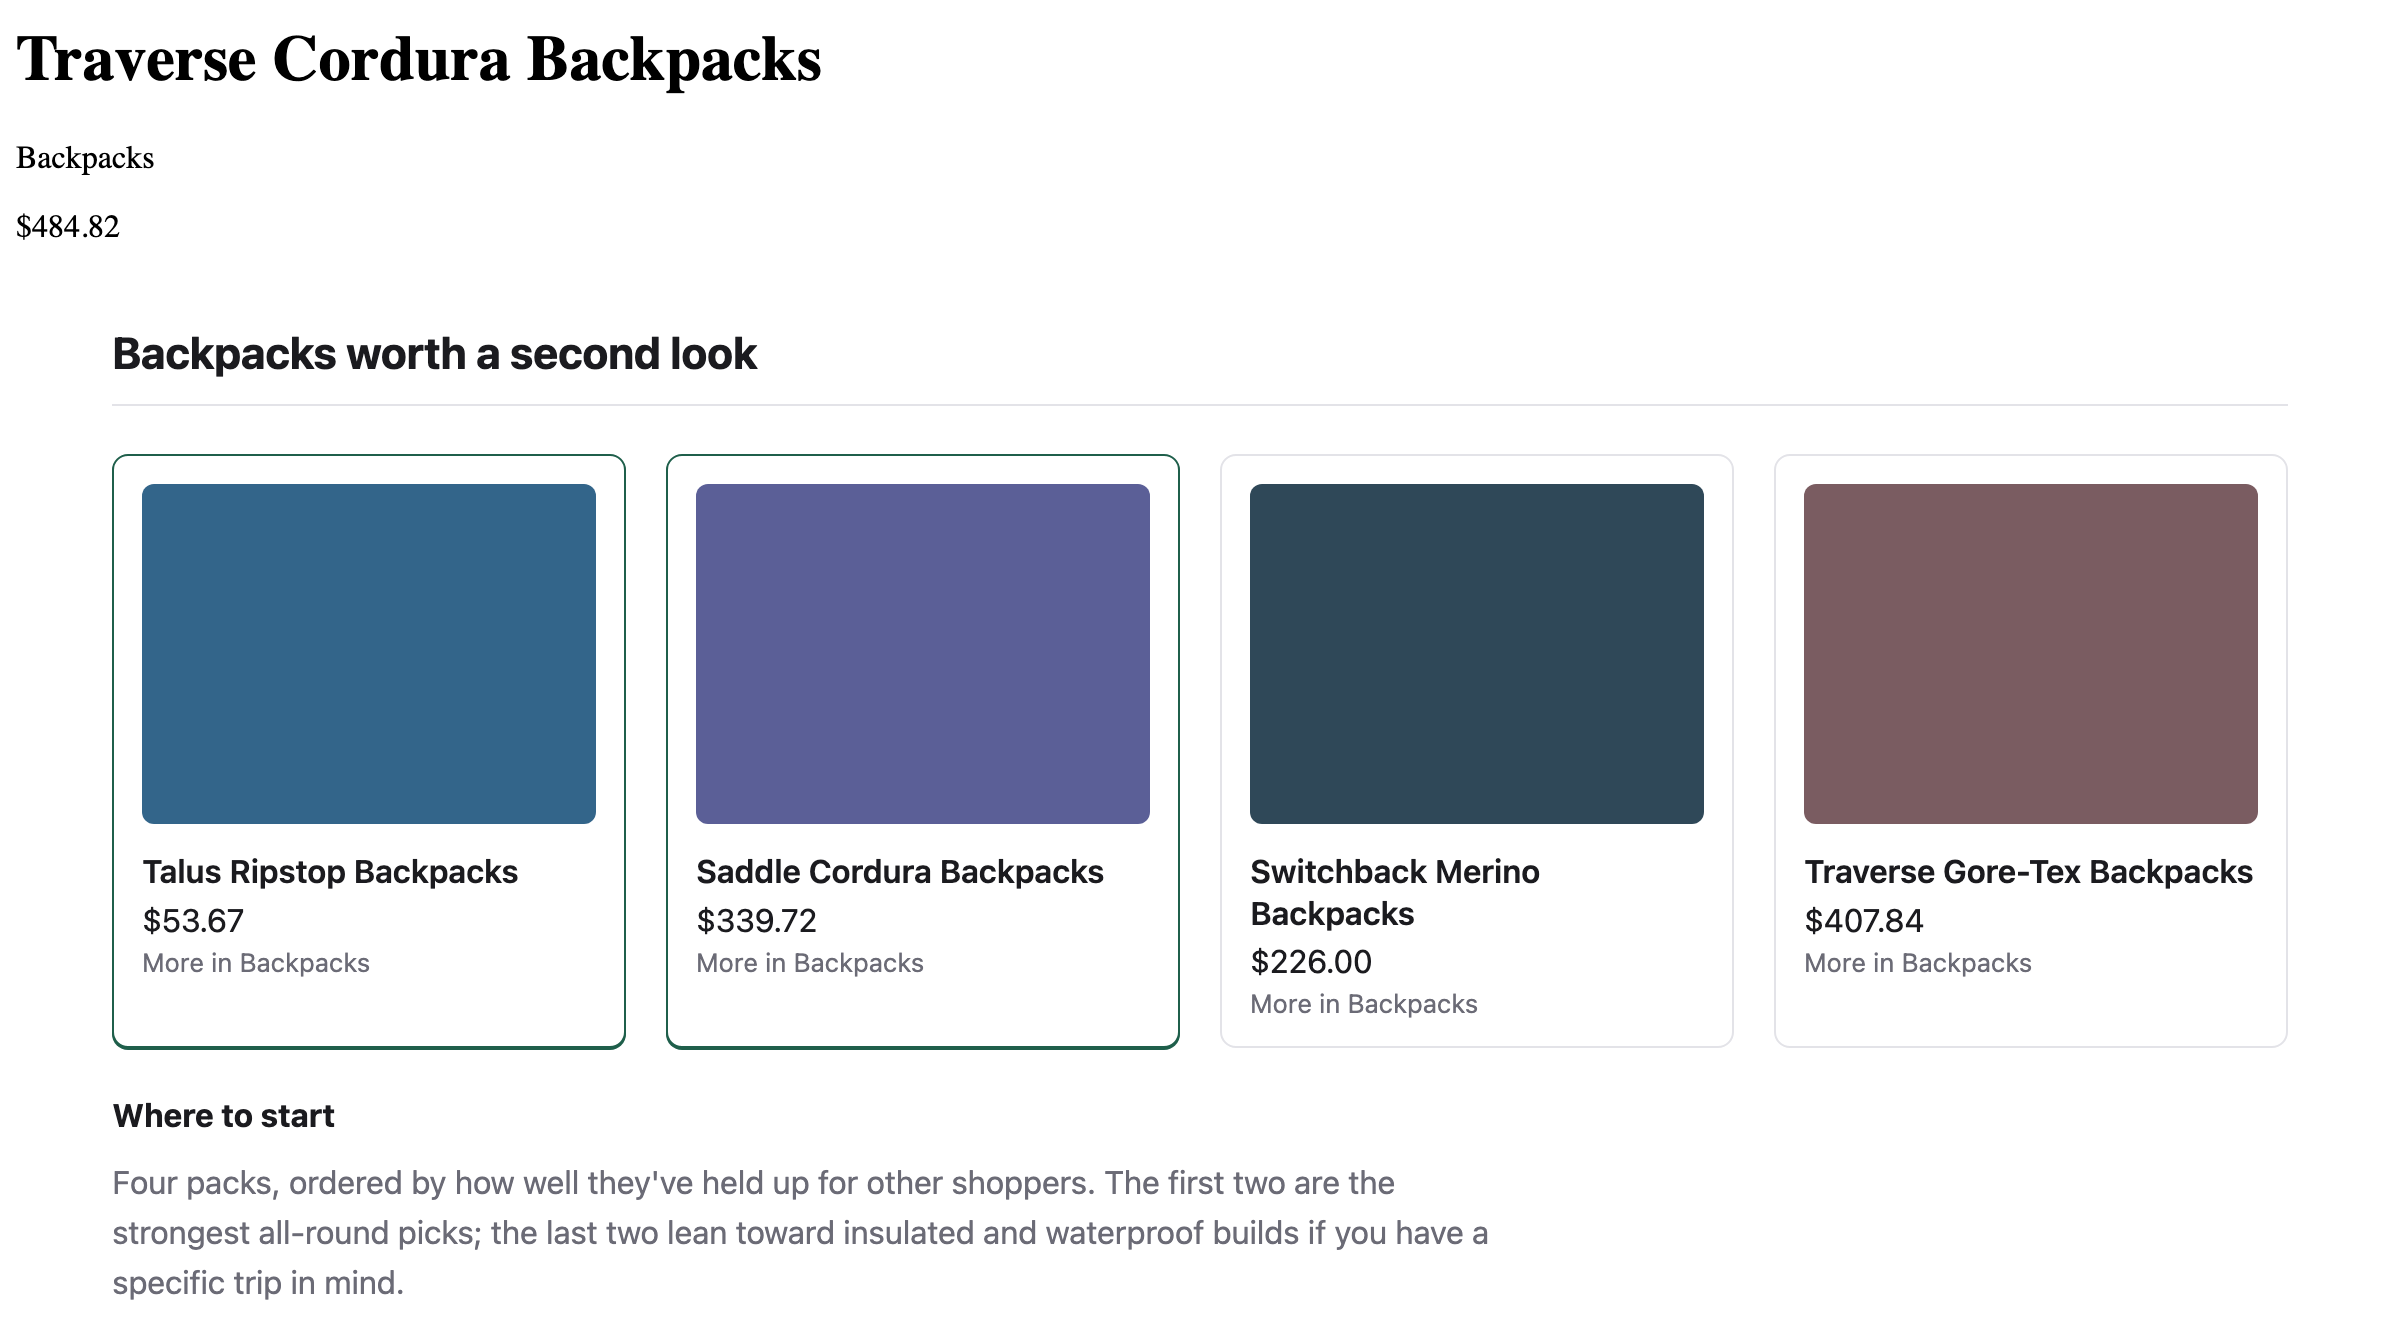
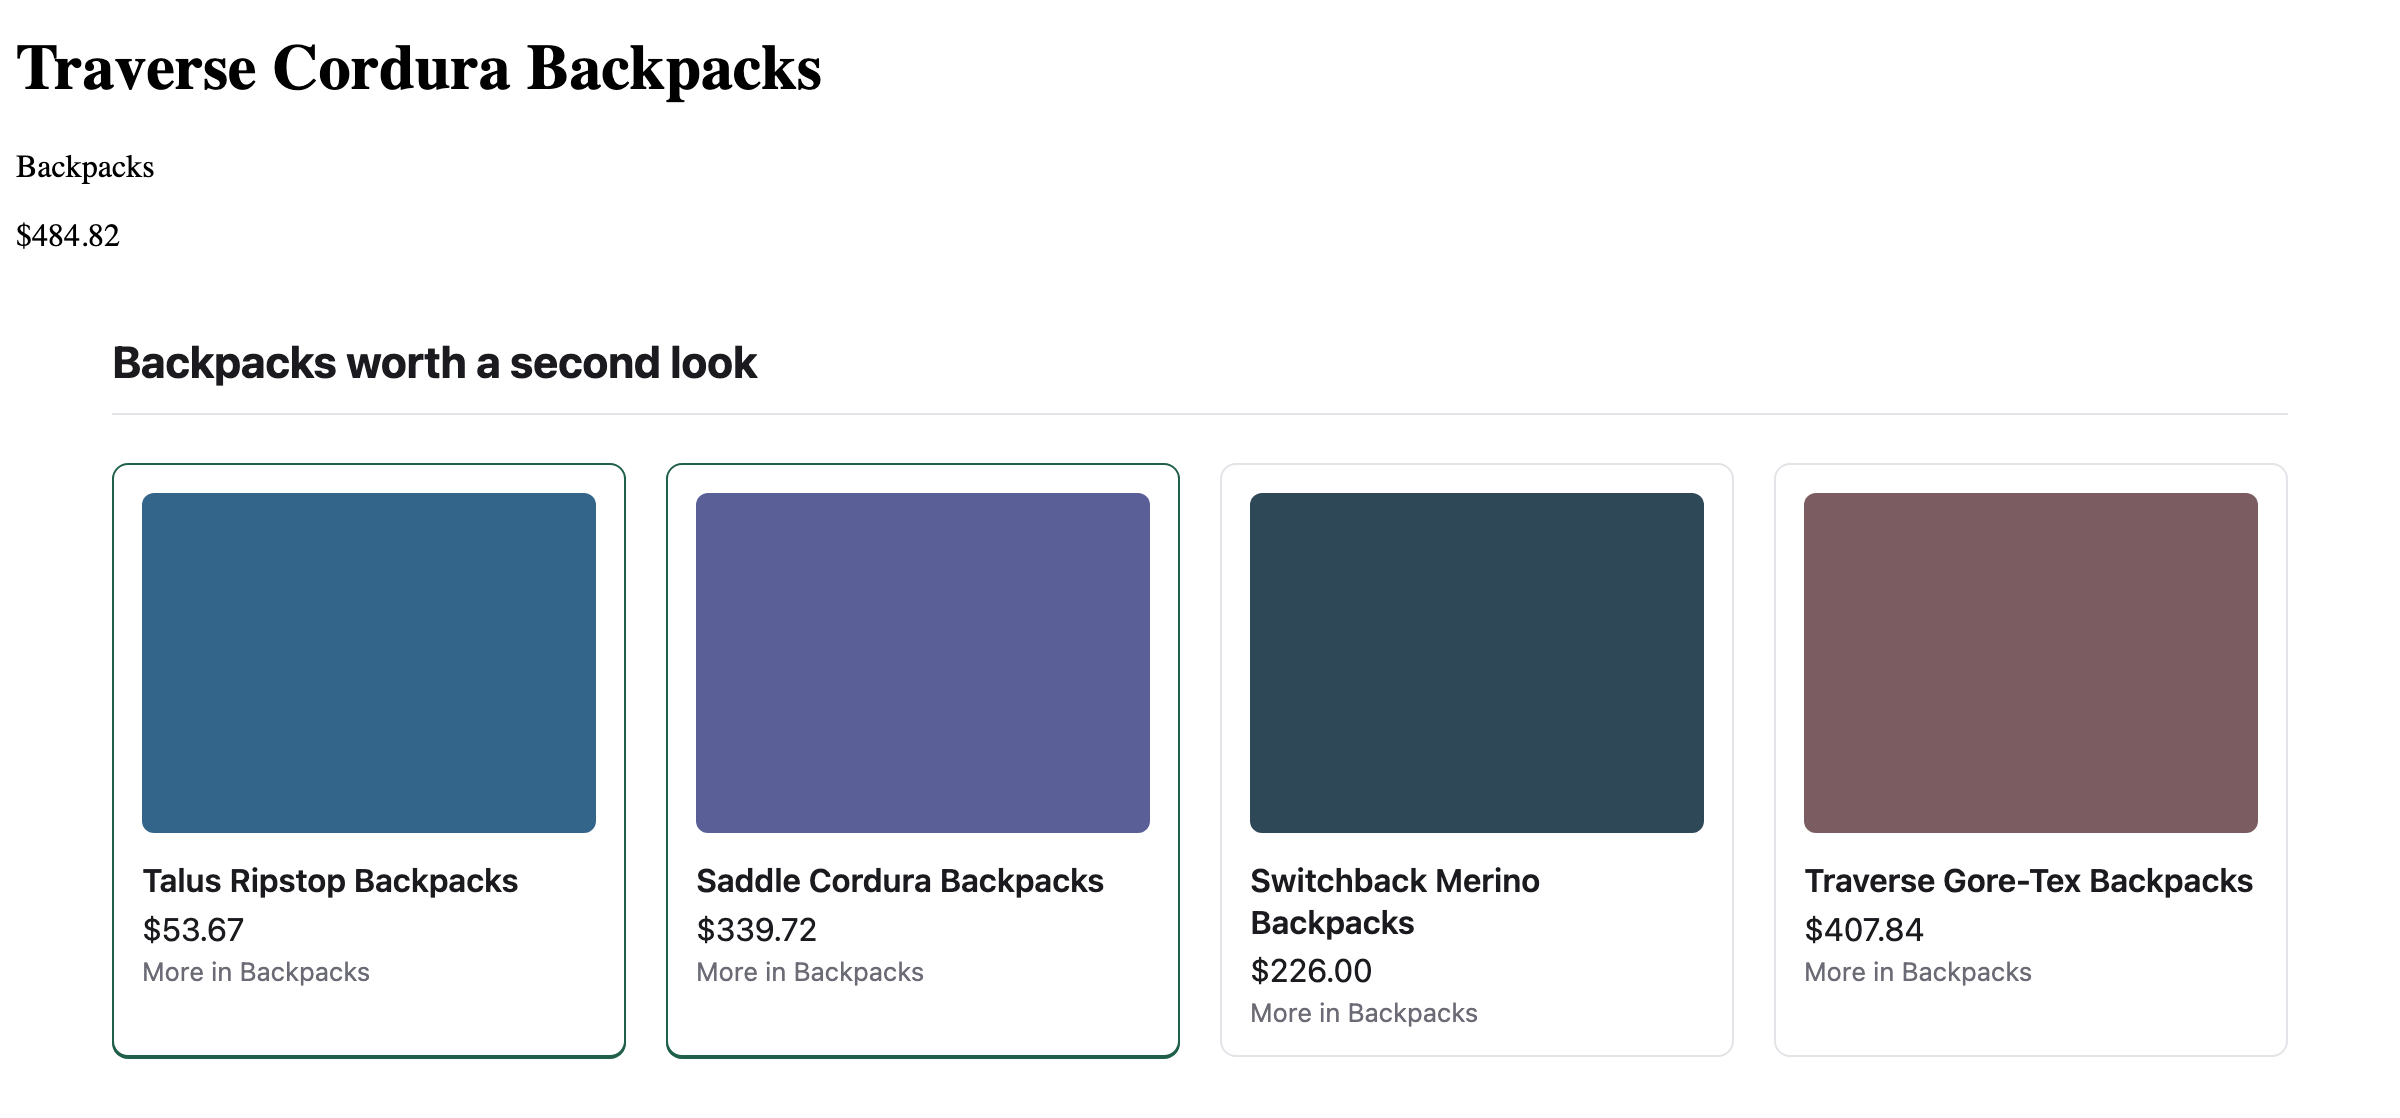
fix: catch the two claims the demo shop's own paragraph makes
The recorded demo copy said the packs were "ordered by how well they've held
up for other shoppers" and called two of them "the strongest all-round picks".
The shop sends each pack's rating, the grid was in rating order, and the prompt
says never to state a rating. The paragraph said it anyway in other words, and
neither phrase was on the list, so it reached the page.

"other shoppers" and "strongest all round pick" join the list, with "strongest
all around pick" for the US spelling. Hyphens read as spaces, so "all-round"
matches. A bare "all round pick" stays off, because "a good all-round pick for
day hikes" ranks nothing. "held up" stays off too: it is an everyday verb, and
the paragraph is caught without it.

The prompt never reads the list, so the recorded transcript still matches and
the replay guard stays armed. The demo now drops the paragraph and keeps its
grid, so the README screenshot is retaken from the local shop. Its caption now
says what cohort mode does: the heading and highlighting are the model's, the
products and their order are core's.

diff --git a/packages/attested/src/verify.test.ts b/packages/attested/src/verify.test.ts
@@ -285,6 +285,26 @@ describe('verify — the wording layer', () => {
     ]);
   });
 
+  it('catches both claims in the example shop recording', () => {
+    const held = "Four packs, ordered by how well they've held up for other shoppers.";
+    const picks = 'The first two are the strongest all-round picks.';
+
+    expect(tokensOf(verify(held, NOTHING).wording.findings)).toEqual(['other shoppers']);
+    expect(tokensOf(verify(picks, NOTHING).wording.findings)).toEqual(['strongest all round pick']);
+  });
+
+  it('catches the US spelling of the strongest all-round pick', () => {
+    const picks = 'The first two are the strongest all-around picks.';
+
+    expect(tokensOf(verify(picks, NOTHING).wording.findings)).toEqual([
+      'strongest all around pick',
+    ]);
+  });
+
+  it('leaves an all-round pick that ranks nothing alone', () => {
+    expect(verify('A good all-round pick for day hikes.', NOTHING).wording.supported).toBe(true);
+  });
+
   it('catches the near-misses a reworded denylist entry used to walk past', () => {
     const rewordings = [
       'Ships free.',

diff --git a/packages/core/src/reconciliation.test.ts b/packages/core/src/reconciliation.test.ts
@@ -2045,6 +2045,19 @@ describe('a claim in a field that cannot be empty', () => {
     expect(result.violations).toContain('empty-block:copy');
   });
 
+  it('drops the copy block the example shop recorded', () => {
+    const body =
+      "Four packs, ordered by how well they've held up for other shoppers. The first two are the strongest all-round picks; the last two lean toward insulated and waterproof builds if you have a specific trip in mind.";
+
+    const result = reconcile(
+      specWith([PRODUCT_GRID, { kind: 'copy', title: 'Where to start', body }]),
+    );
+
+    expect(result.spec.blocks.map((block) => block.kind)).toEqual(['grid']);
+    expect(result.violations).toContain('unverifiable-claim:wording:copy-body');
+    expect(result.violations).toContain('empty-block:copy');
+  });
+
   it('drops a hero whose headline makes a claim and has no product', () => {
     const result = reconcile(
       specWith([

diff --git a/packages/attested/src/phrases.test.ts b/packages/attested/src/phrases.test.ts
@@ -342,6 +342,8 @@ describe('BANNED_PHRASES', () => {
       'most popular',
       'popular pick',
       'top pick',
+      'strongest all round pick',
+      'strongest all around pick',
       'top rated',
       'highly rated',
       'highest rated',
@@ -358,6 +360,7 @@ describe('BANNED_PHRASES', () => {
       'people are viewing',
       'others are buying',
       'people are buying',
+      'other shoppers',
       'in other carts',
       'in other baskets',
       'money back',

diff --git a/packages/attested/src/phrases.ts b/packages/attested/src/phrases.ts
@@ -75,6 +75,8 @@ export const BANNED_PHRASES: readonly string[] = [
   'most popular',
   'popular pick',
   'top pick',
+  'strongest all round pick',
+  'strongest all around pick',
   'top rated',
   'highly rated',
   'highest rated',
@@ -91,6 +93,7 @@ export const BANNED_PHRASES: readonly string[] = [
   'people are viewing',
   'others are buying',
   'people are buying',
+  'other shoppers',
   'in other carts',
   'in other baskets',
   'money back',

diff --git a/README.md b/README.md
@@ -16,7 +16,7 @@ are simply no fields for it to invent a price, a product name, an image, or a li
 referenced only by SKU, and only from the list you provide. In the default mode, the products shown
 in a grid or carousel are chosen per request from that list, not by the model.
 
-![The example shop's product page. The heading, the order, the highlighting and the paragraph are the model's. Every title, price and image is the shop's.](docs/demo.png)
+![The example shop's product page. The heading and the highlighting are the model's. The products, their order and the line under each are core's picks, and every title, price and image is the shop's.](docs/demo.png)
 
 `@rudra-js/react` turns that specification into markup, reading the title, price, image, and link
 from your catalog as the page is served. Whatever the model wrote is rendered as escaped text.

diff --git a/CHANGELOG.md b/CHANGELOG.md
@@ -19,6 +19,14 @@ break them.
   when they did before. A key changes when its digest has a dwell time or a
   category the shopper leans towards (the category being browsed counts too),
   cohort keys included, so those entries miss once after upgrading.
+- The claim screen catches more of the example shop's own recorded copy. "other
+  shoppers", as in "how well they've held up for other shoppers", was the
+  product rating said another way, and the prompt already says never to state
+  one. "strongest all round pick", as in "the strongest all-round picks", ranks
+  products by that rating, and "strongest all around pick" covers the US
+  spelling. A plain "all-round pick" still passes. The demo's product page now
+  drops that copy paragraph and keeps its grid. The list grows from 122 to 125
+  phrases.
 
 ### Fixed
 

diff --git a/packages/attested/README.md b/packages/attested/README.md
@@ -114,7 +114,7 @@ English-first, and every result it produces says so:
 
 ```ts
 verify('Selling fast', { values: [] }).wording;
-// { supported: false, strength: 'best-effort', checked: 122, findings: [...] }
+// { supported: false, strength: 'best-effort', checked: 125, findings: [...] }
 ```
 
 The list also carries generic environmental claims — "eco-friendly", "carbon
